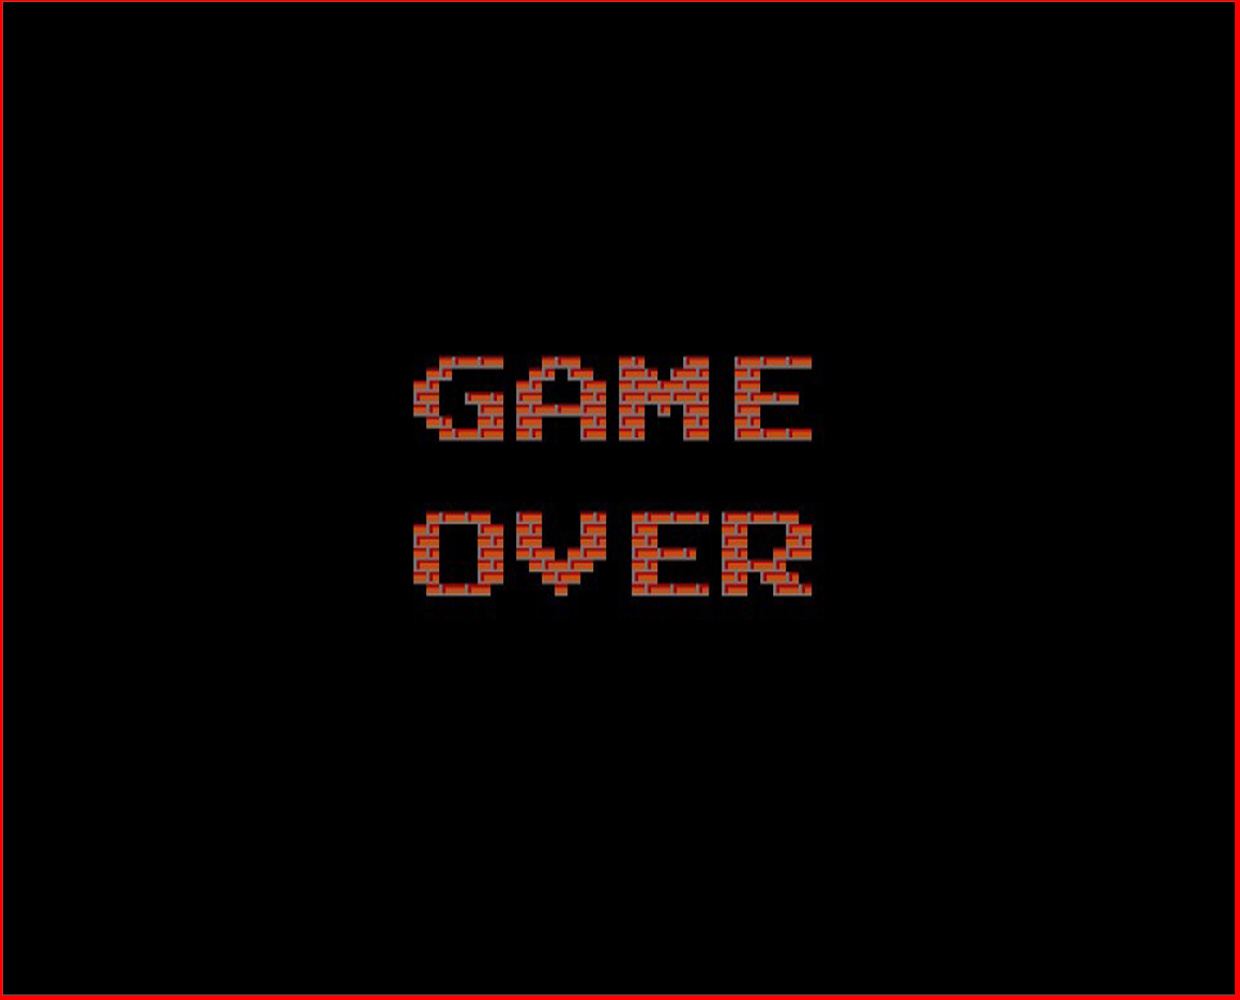
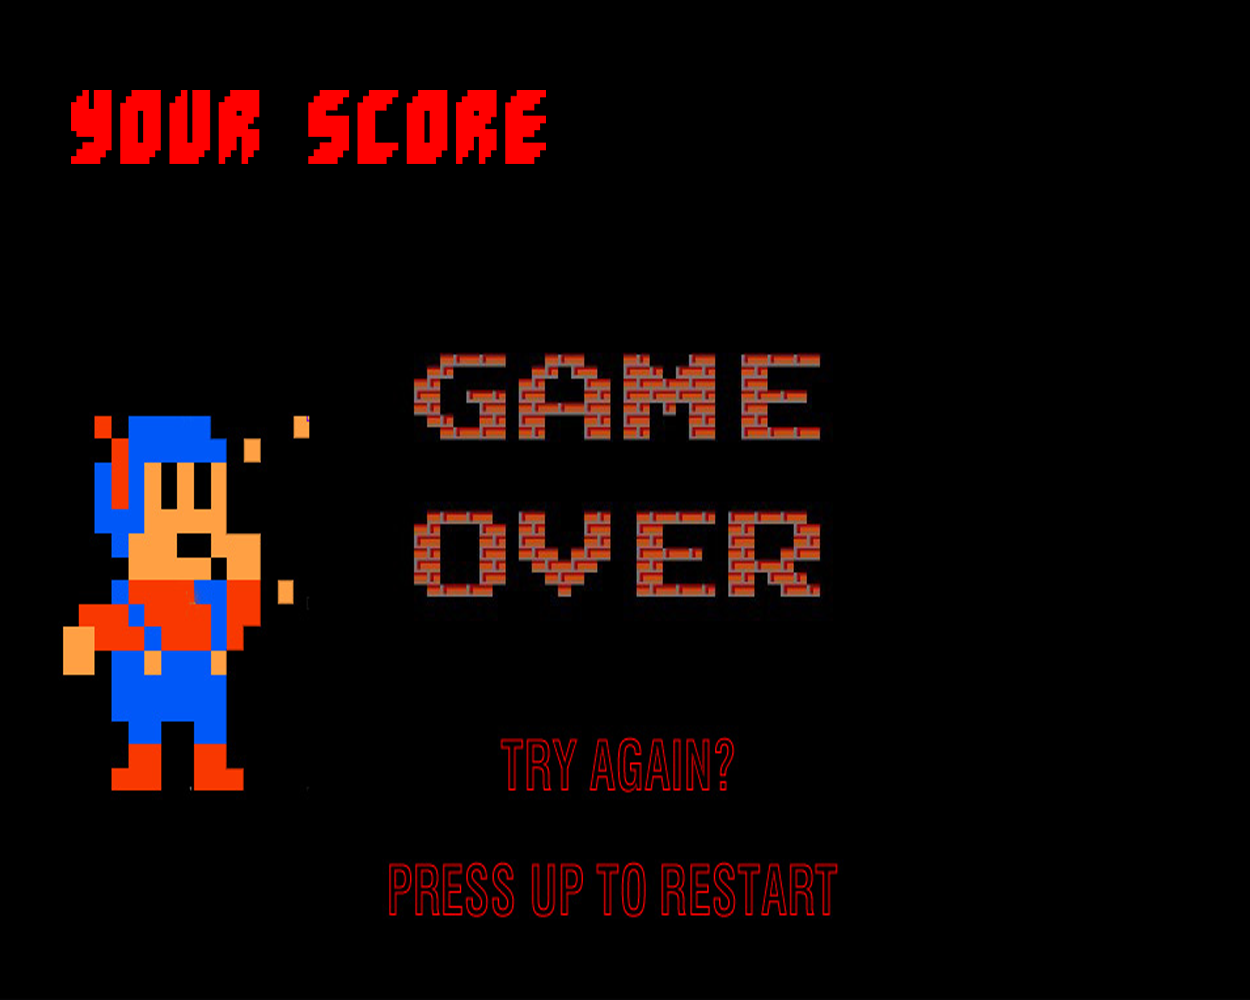
HMU SAN

diff --git a/src/game/Lode.java b/src/game/Lode.java
@@ -10,6 +10,7 @@ package game;
  */
 import java.awt.Color;
 import java.awt.Dimension;
+import java.awt.Font;
 import java.awt.Graphics;
 import java.awt.Rectangle;
 import java.awt.event.KeyEvent;
@@ -49,6 +50,7 @@ public class Lode extends JComponent implements KeyListener {
     int dy = 0;
     // Same as dy except it's used for bot
     int ay = 0;
+    int Difficulty = 1;
     // right,left,up,jump,down buttons 
     boolean right = false;
     boolean left = false;
@@ -63,6 +65,7 @@ public class Lode extends JComponent implements KeyListener {
     int spawn;
     int spawn2;
     int spawn3;
+    Font myFont = new Font("Arial", Font.BOLD, 150);
     //Which way he faces frames
     int fFrame = 0;
     // falling frames
@@ -77,11 +80,15 @@ public class Lode extends JComponent implements KeyListener {
     boolean increase = false;
     // A boolean help to track player
     boolean playerDetected = false;
+    //Score
     int count = 0;
+    int frames = 0;
     //Enemy animation frames (where he faces)
     int enemyFrames = 0;
     //Enemy flipping to different sides
     boolean enemyFlip = false;
+    boolean dead = false;
+    
 
     // Images I imported for textures like wall blocks.. etc
     BufferedImage blockImg = ImageHelper.loadImage("block.png");
@@ -90,7 +97,7 @@ public class Lode extends JComponent implements KeyListener {
     BufferedImage ladderImg = ImageHelper.loadImage("Ladderz.png");
     BufferedImage gold = ImageHelper.loadImage("Dust_edited-2.png");
     BufferedImage title = ImageHelper.loadImage("title.png");
-    BufferedImage gameOver = ImageHelper.loadImage("GAMEOVER.jpg");
+    
     BufferedImage enemyR = ImageHelper.loadImage("Enemy1.png");
 
 // animation aspect of the game
@@ -101,7 +108,8 @@ public class Lode extends JComponent implements KeyListener {
     BufferedImage[] JumpR = new BufferedImage[2];
     BufferedImage[] JumpL = new BufferedImage[2];
     BufferedImage[] EnemyAnimation = new BufferedImage[2];
-
+    BufferedImage[] Dino = new BufferedImage[2];
+    BufferedImage[] GameoverScreen = new BufferedImage[2];
     // drawing of the game happens in here
     // we use the Graphics object, g, to perform the drawing
     // NOTE: This is already double buffered!(helps with framerate/speed)
@@ -130,6 +138,11 @@ public class Lode extends JComponent implements KeyListener {
                 g.drawLine(i * 50, 0, i * 50, HEIGHT);
                 g.drawLine(0, i * 50, WIDTH, i * 50);
             }
+            //Spawns the ultra powered Dinosaur
+            if (count >= 4){
+                    g.drawImage(Dino[fFrame], 750, 300, null);
+                }
+           
 
             // Building ladders 
             for (Rectangle blocks : ladder) {
@@ -192,9 +205,20 @@ public class Lode extends JComponent implements KeyListener {
         }
 
         // Once the player has fallen.. GAME OVER
-        if (levels == 3) {
-            g.drawImage(gameOver, 0, 0, this);
+        if (dead) {
+             frames++;
+            if(frames > 1){
+                frames = 0;
+            }
+            System.out.println(frames);
+            g.drawImage(GameoverScreen[frames], 0, 0, this);
+            g.setFont(myFont);
+            g.setColor(Color.RED);
+            g.drawString(""+count, 660, 175);
+           
+            
         }
+             
         // GAME DRAWING ENDS HERE
     }
 
@@ -273,18 +297,18 @@ public class Lode extends JComponent implements KeyListener {
                 spawn2 = 0 + random2 * p;
                 spawn3 = 0 + random3 * p;
                 int minus = i * 100;
-                if (random != random2 && random != random3) {
+                if (random != random2 ) {
                     blocks.add(new Rectangle(spawn, 200 - minus, 50, 50));
                     
                     blocks.add(new Rectangle(spawn - 50, 200 - minus, 50, 50));
                     blocks.add(new Rectangle(spawn2, 200 - minus, 50, 50));
-                    blocks.add(new Rectangle(spawn2 + 50, 200 - minus, 50, 50));
+                   
                     blocks.add(new Rectangle(spawn3, 200 - minus, 50, 50));
-                     dust.add(new Rectangle(spawn, (200-minus)-50 , 50, 50));
+                     blocks.add(new Rectangle(spawn3+50, 200 - minus, 50, 50));
 
                 }
                 if(random != random2){
-                     
+                     dust.add(new Rectangle((spawn) + 200, (200-minus)-50 , 50, 50));
                 }
                 // FIX GENERATOR// ADD MUSIC// FIX SOME COLLISON BUGS // REDUCE LAG
 
@@ -294,9 +318,7 @@ public class Lode extends JComponent implements KeyListener {
 
         // To make the ladder that leads up to victory
         for (int i = 0; i < 15; i++) {
-            if (count == 4) {
-                ladder.add(new Rectangle(1200, 0 + 50 * i, 50, 50));
-            }
+          
 
         }
         // dust generator
@@ -320,10 +342,11 @@ public class Lode extends JComponent implements KeyListener {
 
     }
     public void Death(){
+        
         if(up){
             levels = 1;
         }
-        
+       
         
     }
 
@@ -353,7 +376,10 @@ public class Lode extends JComponent implements KeyListener {
         JumpL[1] = ImageHelper.loadImage("Lodejump4.png");
         EnemyAnimation[0] = ImageHelper.loadImage("Enemy3.png");
         EnemyAnimation[1] = ImageHelper.loadImage("Enemy4.png");
-
+        Dino[0] = ImageHelper.loadImage("Dino1.png");
+        Dino[1] = ImageHelper.loadImage("Dino2.png");
+GameoverScreen[0] = ImageHelper.loadImage("GAMEOVER.jpg");
+GameoverScreen[1] = ImageHelper.loadImage("GAMEOVER2.jpg");
         // the main game loop section
         // game will end if you set done = false;
         boolean done = false;
@@ -375,6 +401,7 @@ public class Lode extends JComponent implements KeyListener {
                     MainLevel();
                 }
                 if(levels == 3){
+                    Death();
                     if(up){
                         levels = 1;
                     }
@@ -382,13 +409,9 @@ public class Lode extends JComponent implements KeyListener {
                 }
                 
             }
-            System.out.println(levels);
+            System.out.println(Difficulty);
             ////////////////TEMP//////////////
-            if (player.y < 0) {
-                levels++;
-                player.x = 50;
-                player.y = 300;
-            }
+           
             // for game not menu
             if (levels >= 1) {
                 if (levels == 2) {
@@ -419,6 +442,11 @@ public class Lode extends JComponent implements KeyListener {
                     player.y = 250;
 
                 }
+                //increase difficulity
+                if(count == 15 ){
+                    Difficulty = 3;
+                }
+           
 
                 // Jumps sets dy = -15 (meaning he's in air)
                 if (!jumping && jump && dy == 0 && climbing == false) {
@@ -619,26 +647,25 @@ public class Lode extends JComponent implements KeyListener {
                                 }
                             }
                         }
-                        if (block.y > HEIGHT) {
-                            count++;
-                            score++;
+                        
+                           
+                            
 
-                        }
+                        
 
                     }
 
                     if (block.y > HEIGHT) {
                         increase = true;
                     }
-                    if (enemy.y > HEIGHT) {
-
-                    }
-                    if(levels == 1){
-                    block.y = block.y + 1;
+                   
+                    if(count >= 4){
+                    block.y = block.y + Difficulty;
                 }}
                 if (player.intersects(enemy)) {
-
+                    dead = true;
                     levels = 3;
+                    
                 }
                 if (enemy.y > HEIGHT) {
                     enemy.y = 50;
@@ -723,6 +750,12 @@ public class Lode extends JComponent implements KeyListener {
                 }
 
             }
+            //Making dust go down
+             for (Rectangle block : dust) {
+                 if(count >= 4){
+             block.y = block.y + 1;
+             }
+             }
 
             // GAME LOGIC ENDS HERE 
             // update the drawing (calls paintComponent)
